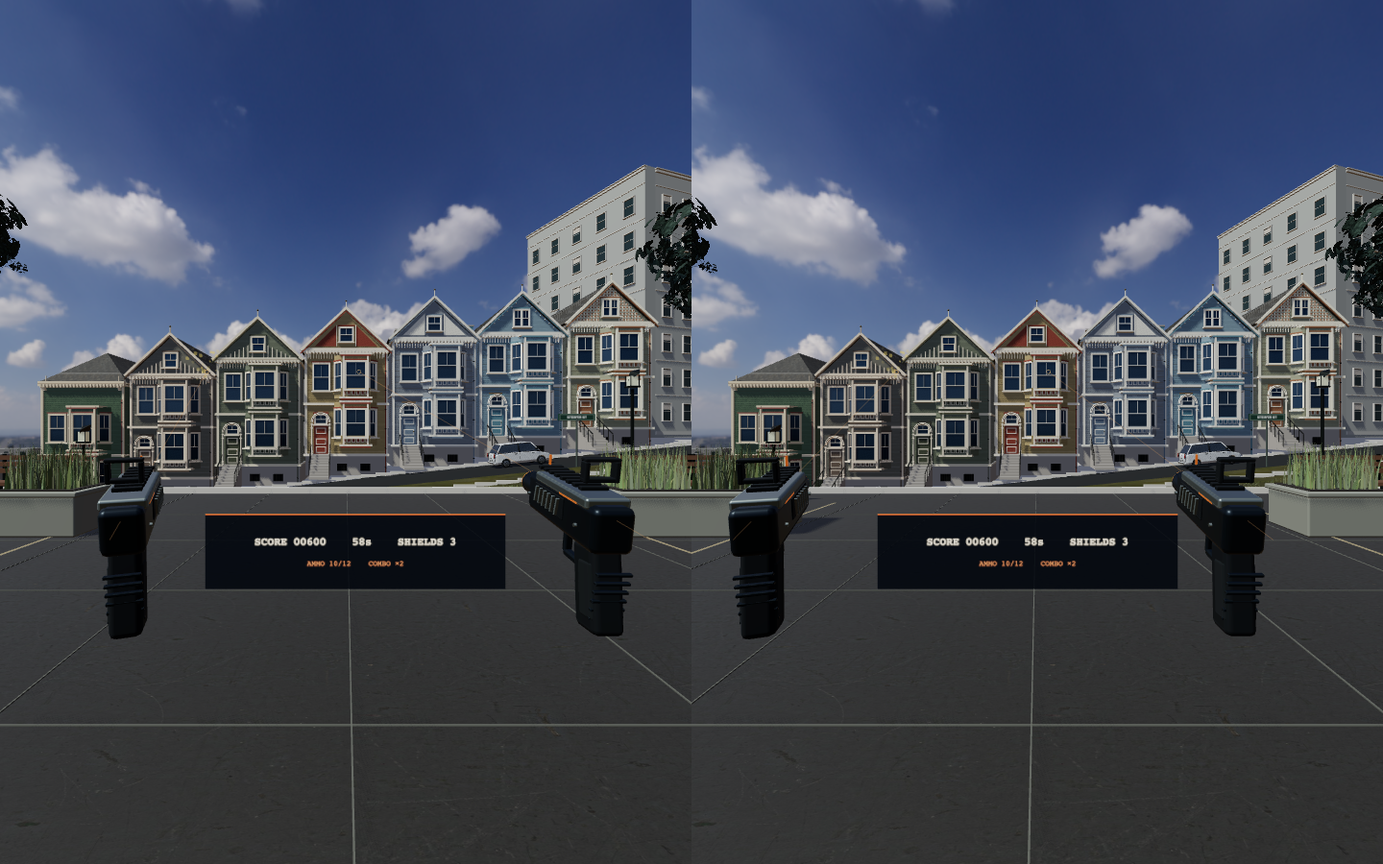
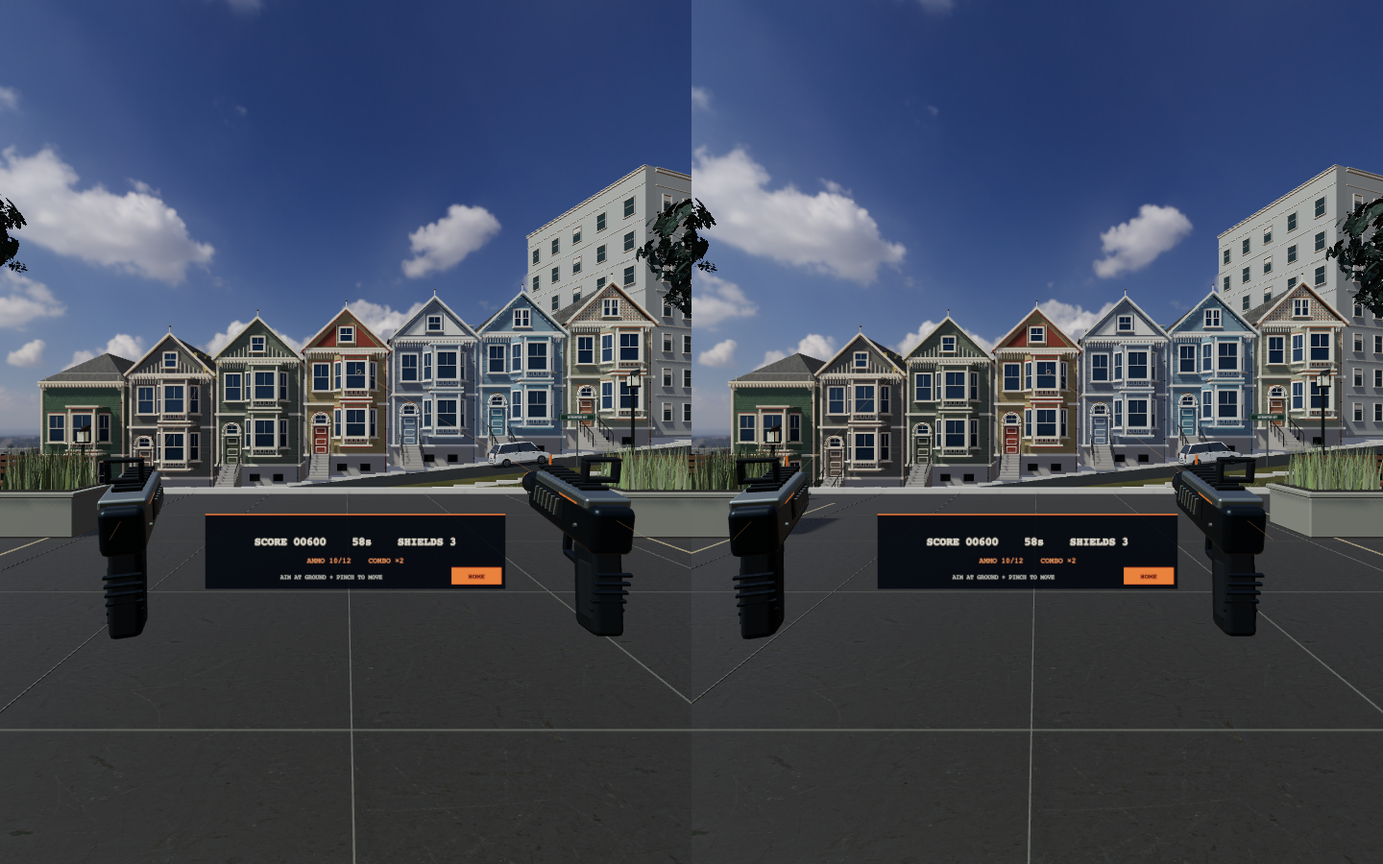
Add hand teleporting, stick locomotion and park collision bounds

diff --git a/src/main.ts b/src/main.ts
@@ -3,6 +3,7 @@ import {Game} from './game';
 import {Sound} from './audio';
 import {buildLevel} from './level';
 import {makeBlaster,makeDrone} from './drone';
+import {Locomotion} from './locomotion';
 import type {Target} from './game';
 
 const $=<T extends HTMLElement=HTMLElement>(id:string)=>document.getElementById(id) as T;
@@ -45,21 +46,22 @@ const hudCanvas=document.createElement('canvas');hudCanvas.width=1024;hudCanvas.
 const hudContext=hudCanvas.getContext('2d')!;
 const hudTexture=new THREE.CanvasTexture(hudCanvas);hudTexture.colorSpace=THREE.SRGBColorSpace;
 const xrHud=new THREE.Mesh(new THREE.PlaneGeometry(.98,.245),new THREE.MeshBasicMaterial({map:hudTexture,transparent:true,depthTest:false,depthWrite:false}));
-xrHud.position.set(0,-.39,-1.45);xrHud.renderOrder=1000;xrHud.visible=false;camera.add(xrHud);
+xrHud.name='XR status and movement';xrHud.position.set(0,-.39,-1.45);xrHud.renderOrder=1000;xrHud.visible=false;camera.add(xrHud);
 let hudLast='',hudTime=0,domUpdateAt=0;
 function drawXRHUD(){
- const message=game.phase==='ready'?'POINT + PINCH TO START':game.phase==='over'?'ROUND OVER · SELECT TO PLAY AGAIN':game.phase==='paused'?'PAUSED · SELECT TO RESUME':`SCORE ${String(game.score).padStart(5,'0')}    ${game.remaining}s    SHIELDS ${game.shields}`;
- const detail=game.phase==='playing'?(game.reloadLeft>0?'RELOADING…':`AMMO ${game.ammo}/12    ${game.combo>1?'COMBO ×'+game.combo:'AIM AT THE DRONES'}`):'SFVR / ALAMO SQUARE';
- const text=message+detail;if(text===hudLast&&clock-hudTime<1)return;hudLast=text;hudTime=clock;hudContext.clearRect(0,0,1024,256);hudContext.fillStyle='rgba(11,25,35,0.86)';hudContext.fillRect(0,0,1024,256);hudContext.fillStyle='#ff7b3d';hudContext.fillRect(0,0,1024,4);hudContext.textAlign='center';hudContext.font='bold 37px monospace';hudContext.fillStyle='#fff3dc';hudContext.fillText(message,512,106);hudContext.font='25px monospace';hudContext.fillStyle='#ffa46c';hudContext.fillText(detail,512,177);hudTexture.needsUpdate=true;
+ const message=locomotion.aiming?'RELEASE PINCH TO MOVE':game.phase==='ready'?'POINT + PINCH TO START':game.phase==='over'?'ROUND OVER · SELECT TO PLAY AGAIN':game.phase==='paused'?'PAUSED · SELECT TO RESUME':`SCORE ${String(game.score).padStart(5,'0')}    ${game.remaining}s    SHIELDS ${game.shields}`;
+ const detail=locomotion.aiming?(locomotion.valid?'CLEAR DESTINATION':'CHOOSE CLEAR GROUND INSIDE THE PARK'):game.phase==='playing'?(game.reloadLeft>0?'RELOADING…':`AMMO ${game.ammo}/12    ${game.combo>1?'COMBO ×'+game.combo:'AIM AT THE DRONES'}`):'SFVR / ALAMO SQUARE';
+ const text=message+detail;if(text===hudLast&&clock-hudTime<1)return;hudLast=text;hudTime=clock;hudContext.clearRect(0,0,1024,256);hudContext.fillStyle='rgba(11,25,35,0.86)';hudContext.fillRect(0,0,1024,256);hudContext.fillStyle='#ff7b3d';hudContext.fillRect(0,0,1024,4);hudContext.textAlign='center';hudContext.font='bold 37px monospace';hudContext.fillStyle='#fff3dc';hudContext.fillText(message,512,106);hudContext.font='25px monospace';hudContext.fillStyle='#ffa46c';hudContext.fillText(detail,512,167);hudContext.font='20px monospace';hudContext.fillStyle='#dedbd0';hudContext.fillText('AIM AT GROUND + PINCH TO MOVE',430,222);hudContext.fillStyle='#ff7b3d';hudContext.fillRect(840,183,170,57);hudContext.font='bold 24px monospace';hudContext.fillStyle='#14212a';hudContext.fillText('HOME',925,221);hudTexture.needsUpdate=true;
 }
 const controllers=[renderer.xr.getController(0),renderer.xr.getController(1)];
 const controllerHeld=new Set<THREE.XRTargetRaySpace>();
+const locomotion=new Locomotion(rig,camera,renderer,scene,controllers,xrHud,()=>game.phase==='playing',ray=>game.targets.some(t=>ray.intersectsSphere(new THREE.Sphere(new THREE.Vector3(t.x,t.y,t.z),t.kind==='heavy'?.95:.85))));
 for(const controller of controllers){
  rig.add(controller);const gun=makeBlaster();gun.scale.setScalar(.6);gun.position.set(0,-.025,-.04);controller.add(gun);controller.userData.gun=gun;
- const line=new THREE.Line(new THREE.BufferGeometry().setFromPoints([new THREE.Vector3(0,0,0),new THREE.Vector3(0,0,-12)]),new THREE.LineBasicMaterial({color:'#ff9858',transparent:true,opacity:.28}));controller.add(line);
+ const line=new THREE.Line(new THREE.BufferGeometry().setFromPoints([new THREE.Vector3(0,0,0),new THREE.Vector3(0,0,-12)]),new THREE.LineBasicMaterial({color:'#ff9858',transparent:true,opacity:.28}));controller.add(line);controller.userData.line=line;
  const cursor=new THREE.Mesh(new THREE.RingGeometry(.045,.06,24),new THREE.MeshBasicMaterial({color:'#ffb469',transparent:true,opacity:.85,depthWrite:false}));cursor.position.z=-12;controller.add(cursor);controller.userData.cursor=cursor;
- controller.addEventListener('selectstart',()=>{sound.unlock();if(game.phase==='ready'||game.phase==='over'){start();return;}if(game.phase==='paused'){resume();return;}controllerHeld.add(controller);fireFromController(controller)});
- controller.addEventListener('selectend',()=>controllerHeld.delete(controller));controller.addEventListener('disconnected',()=>controllerHeld.delete(controller));
+ controller.addEventListener('selectstart',()=>{sound.unlock();if(locomotion.selectStart(controller)){drawXRHUD();return;}if(game.phase==='ready'||game.phase==='over'){start();return;}if(game.phase==='paused'){resume();return;}controllerHeld.add(controller);fireFromController(controller)});
+ controller.addEventListener('selectend',()=>{controllerHeld.delete(controller);locomotion.selectEnd(controller);drawXRHUD()});controller.addEventListener('disconnected',()=>{controllerHeld.delete(controller);locomotion.cancel(controller)});
 }
 function fireFromController(controller:THREE.Object3D){
  if(!controller.visible)return;
@@ -81,13 +83,13 @@ $('xr').onclick=async()=>{
   await renderer.xr.setSession(session);
  }catch(error){toast('XR could not start. Check headset permissions and use a secure URL.');console.warn('XR session failed',error)}
 };
-renderer.xr.addEventListener('sessionstart',()=>{document.body.classList.add('xr');weapon.visible=false;xrHud.visible=true;game.laneWidth=15;rig.position.set(0,0,6.5);rig.rotation.set(0,0,0);renderer.shadowMap.enabled=true;desktopHeld=false;keys.clear();if(game.phase==='playing')game.pause();drawXRHUD();});
-renderer.xr.addEventListener('sessionend',()=>{document.body.classList.remove('xr');weapon.visible=true;xrHud.visible=false;renderer.shadowMap.enabled=true;renderer.shadowMap.needsUpdate=true;controllerHeld.clear();camera.position.set(0,1.7,0);camera.rotation.set(.08,0,0);rig.position.set(0,0,6.5);fitViewport();if(game.phase==='playing')pause();syncUI();checkXR();});
+renderer.xr.addEventListener('sessionstart',()=>{locomotion.reset();document.body.classList.add('xr');weapon.visible=false;xrHud.visible=true;game.laneWidth=15;rig.position.set(0,0,6.5);rig.rotation.set(0,0,0);renderer.shadowMap.enabled=true;desktopHeld=false;keys.clear();if(game.phase==='playing')game.pause();drawXRHUD();});
+renderer.xr.addEventListener('sessionend',()=>{locomotion.reset();document.body.classList.remove('xr');weapon.visible=true;xrHud.visible=false;renderer.shadowMap.enabled=true;renderer.shadowMap.needsUpdate=true;controllerHeld.clear();camera.position.set(0,1.7,0);camera.rotation.set(.08,0,0);rig.position.set(0,0,6.5);rig.rotation.set(0,0,0);fitViewport();if(game.phase==='playing')pause();syncUI();checkXR();});
 
-function start(){if(!ready)return;sound.unlock();sound.tone('start');clearDrones();clearEffects();game.start();recoil=0;keys.clear();desktopHeld=false;controllerHeld.clear();rig.position.set(0,0,6.5);camera.rotation.x=.08;syncUI();processEvents();}
-function pause(){game.pause();desktopHeld=false;controllerHeld.clear();keys.clear();syncUI()}
+function start(){if(!ready)return;locomotion.reset();sound.unlock();sound.tone('start');clearDrones();clearEffects();game.start();recoil=0;keys.clear();desktopHeld=false;controllerHeld.clear();locomotion.goHome();if(!renderer.xr.isPresenting)camera.rotation.x=.08;syncUI();processEvents();}
+function pause(){locomotion.cancel();game.pause();desktopHeld=false;controllerHeld.clear();keys.clear();syncUI()}
 function resume(){game.resume();last=performance.now();syncUI()}
-function back(){game.phase='ready';clearDrones();clearEffects();desktopHeld=false;controllerHeld.clear();keys.clear();rig.position.set(0,0,6.5);syncUI()}
+function back(){locomotion.reset();game.phase='ready';clearDrones();clearEffects();desktopHeld=false;controllerHeld.clear();keys.clear();locomotion.goHome();syncUI()}
 function syncUI(){
  const playing=game.phase==='playing'||game.phase==='paused';document.body.classList.toggle('playing',playing);
  $('menu').hidden=game.phase!=='ready';$('hud').hidden=!playing;$('pause').hidden=game.phase!=='paused';$('result').hidden=game.phase!=='over';$('footer').hidden=game.phase!=='ready';
@@ -99,7 +101,7 @@ $('play').onclick=start;$('again').onclick=start;$('resume').onclick=resume;$('q
 $('reload').onclick=()=>game.reload();$('sound').onclick=()=>{sound.enabled=!sound.enabled;$('sound').innerHTML=(sound.enabled?'SOUND ON':'SOUND OFF')+' <i>▥</i>';$('sound').setAttribute('aria-pressed',String(!sound.enabled));$('sound').setAttribute('aria-label',sound.enabled?'Mute sound':'Unmute sound');};
 $('help').onclick=()=>{pause();$<HTMLDialogElement>('help-dialog').showModal()};$('close-help').onclick=()=>$<HTMLDialogElement>('help-dialog').close();
 document.addEventListener('visibilitychange',()=>{if(document.hidden)pause()});window.addEventListener('blur',()=>{if(!renderer.xr.isPresenting)pause()});
-window.addEventListener('keydown',e=>{if(e.target instanceof HTMLInputElement||$<HTMLDialogElement>('help-dialog').open)return;if(e.code==='Escape'){if(game.phase==='playing')pause();else if(game.phase==='paused')resume();}if(e.code==='KeyR')game.reload();if(['KeyA','KeyD','ArrowLeft','ArrowRight'].includes(e.code)){e.preventDefault();keys.add(e.code)}});
+window.addEventListener('keydown',e=>{if(e.target instanceof HTMLInputElement||$<HTMLDialogElement>('help-dialog').open)return;if(e.code==='Escape'){if(game.phase==='playing')pause();else if(game.phase==='paused')resume();}if(e.code==='KeyR')game.reload();if(e.code==='KeyH'){locomotion.goHome();drawXRHUD();}if(['KeyW','KeyA','KeyS','KeyD','ArrowUp','ArrowDown','ArrowLeft','ArrowRight'].includes(e.code)){e.preventDefault();keys.add(e.code)}});
 window.addEventListener('keyup',e=>keys.delete(e.code));
 function updatePointer(e:PointerEvent){const rect=canvas.getBoundingClientRect();pointer.set((e.clientX-rect.left)/rect.width*2-1,-(e.clientY-rect.top)/rect.height*2+1);$('reticle').style.left=e.clientX+'px';$('reticle').style.top=e.clientY+'px';$('hit-marker').style.left=e.clientX+'px';$('hit-marker').style.top=e.clientY+'px';}
 canvas.addEventListener('pointermove',updatePointer);
@@ -129,9 +131,10 @@ function processEvents(){for(const event of game.drain()){
  if(event.type==='reload')sound.tone('reload');if(event.type==='over')syncUI();
 }}
 function frame(now:number){const dt=last?Math.min((now-last)/1000,.1):0;last=now;clock+=dt;
+ locomotion.update(dt,keys);
  if(game.phase==='playing'){
   game.step(dt);processEvents();
-  if(!renderer.xr.isPresenting){if(keys.has('KeyA')||keys.has('ArrowLeft'))rig.position.x=Math.max(-4,rig.position.x-dt*2.3);if(keys.has('KeyD')||keys.has('ArrowRight'))rig.position.x=Math.min(4,rig.position.x+dt*2.3);if(desktopHeld)shootDesktop();}
+  if(!renderer.xr.isPresenting){if(desktopHeld)shootDesktop();}
   else for(const controller of controllerHeld)fireFromController(controller);
  }
  for(const t of game.targets){const d=drones.get(t.id);if(!d)continue;d.position.set(t.x,t.y,t.z);d.rotation.z=Math.sin(t.age*1.2+t.phase)*.12;for(const rotor of d.userData.rotors as THREE.Mesh[])rotor.rotation.y+=dt*45;const accent=d.userData.accent as THREE.MeshStandardMaterial;accent.emissiveIntensity=t.age>7?1.2+Math.sin(clock*14)*.7:.8;}
@@ -142,19 +145,22 @@ function frame(now:number){const dt=last?Math.min((now-last)/1000,.1):0;last=now
  if(renderer.xr.isPresenting)for(const controller of controllers){
   if(!controller.visible)continue;controller.updateWorldMatrix(true,false);matrix.identity().extractRotation(controller.matrixWorld);aimRay.origin.setFromMatrixPosition(controller.matrixWorld);aimRay.direction.set(0,0,-1).applyMatrix4(matrix).normalize();let distance=14,aimed=false;
   for(const t of game.targets){const p=aimRay.intersectSphere(new THREE.Sphere(new THREE.Vector3(t.x,t.y,t.z),t.kind==='heavy'?.95:.85),tempV);if(p){const d=p.distanceTo(aimRay.origin);if(d<distance){distance=d;aimed=true}}}
-  const cursor=controller.userData.cursor as THREE.Mesh;cursor.position.z=-distance;cursor.scale.setScalar(distance/12);(cursor.material as THREE.MeshBasicMaterial).color.set(aimed?'#fff5d8':'#ffb469');
+  const navigation=locomotion.pointerTarget(controller);if(navigation){distance=navigation.distance;aimed=true;}
+  (controller.userData.line as THREE.Line).scale.z=distance/12;
+  const cursor=controller.userData.cursor as THREE.Mesh;cursor.visible=!navigation?.floor;cursor.position.z=-distance;cursor.scale.setScalar(distance/12);(cursor.material as THREE.MeshBasicMaterial).color.set(aimed?'#fff5d8':'#ffb469');
  }
  if(clock>hitUntil)$('hit-marker').style.opacity='0';if(clock>damageUntil)$('damage-flash').style.opacity='0';
  if(!renderer.xr.isPresenting&&now-domUpdateAt>70){domUpdateAt=now;
  $('score').textContent=String(game.score).padStart(5,'0');$('wave').textContent=String(game.wave).padStart(2,'0');$('time').innerHTML=game.remaining+'<span>s</span>';$('time-bar').style.width=((60-game.elapsed)/60*100)+'%';
  $('ammo').textContent=game.reloadLeft>0?'··':String(game.ammo).padStart(2,'0');$('ammo-label').textContent=game.reloadLeft>0?'RELOADING…':'/ 12  RELOAD [R]';$('reload').classList.toggle('reloading',game.reloadLeft>0);
  [...$('shields').children].forEach((e,i)=>e.classList.toggle('lost',i>=game.shields));if(game.combo===0)$('combo').textContent='';}
+ locomotion.updateMarker();
  if(renderer.xr.isPresenting)drawXRHUD();
  renderer.render(scene,camera);
 }
 renderer.setAnimationLoop(frame);
 window.addEventListener('resize',()=>{if(renderer.xr.isPresenting)return;fitViewport();renderer.setSize(innerWidth,innerHeight)});
 canvas.addEventListener('webglcontextlost',e=>{e.preventDefault();pause();toast('Graphics connection lost. Reload the page to restart.');});
-function snapshot(){return {ready,phase:game.phase,score:game.score,shots:game.shots,hits:game.hits,shields:game.shields,ammo:game.ammo,reloading:game.reloadLeft,elapsed:game.elapsed,remaining:game.remaining,xr:renderer.xr.isPresenting,triangles:renderer.info.render.triangles,drawCalls:renderer.info.render.calls,targets:game.targets.map(t=>{const p=new THREE.Vector3(t.x,t.y,t.z).project(camera);return {id:t.id,hp:t.hp,x:(p.x+1)*innerWidth/2,y:(1-p.y)*innerHeight/2,visible:p.z<1&&Math.abs(p.x)<1&&Math.abs(p.y)<1}})}}
+function snapshot(){return {ready,phase:game.phase,score:game.score,shots:game.shots,hits:game.hits,shields:game.shields,ammo:game.ammo,reloading:game.reloadLeft,elapsed:game.elapsed,remaining:game.remaining,xr:renderer.xr.isPresenting,navigation:{position:{x:camera.getWorldPosition(new THREE.Vector3()).x,z:camera.getWorldPosition(new THREE.Vector3()).z},yaw:rig.rotation.y,teleporting:locomotion.aiming,target:locomotion.target},triangles:renderer.info.render.triangles,drawCalls:renderer.info.render.calls,targets:game.targets.map(t=>{const p=new THREE.Vector3(t.x,t.y,t.z).project(camera);return {id:t.id,hp:t.hp,x:(p.x+1)*innerWidth/2,y:(1-p.y)*innerHeight/2,visible:p.z<1&&Math.abs(p.x)<1&&Math.abs(p.y)<1}})}}
 if(import.meta.env.DEV)(window as any).__sfStrike={snapshot,renderer,game,scene};
 syncUI();

diff --git a/src/locomotion.ts b/src/locomotion.ts
@@ -1,0 +1,122 @@
+import * as T from 'three';
+import {canStand,HOME,moveInPark,stickAxes,travelDelta} from './navigation';
+
+type Destination={point:T.Vector3;valid:boolean};
+export class Locomotion {
+ private active?:T.XRTargetRaySpace;
+ private destination?:Destination;
+ private raycaster=new T.Raycaster();
+ private rotation=new T.Matrix4();
+ private head=new T.Vector3();
+ private forward=new T.Vector3();
+ private up=new T.Vector3(0,1,0);
+ private floor=new T.Plane(this.up,0);
+ private turnArmed=true;
+ private blinkLeft=0;
+ private marker:T.Group;
+ private blink:T.Mesh<T.PlaneGeometry,T.MeshBasicMaterial>;
+ constructor(private rig:T.Group,private camera:T.PerspectiveCamera,private renderer:T.WebGLRenderer,scene:T.Scene,private controllers:T.XRTargetRaySpace[],private hud:T.Mesh,private enabled:()=>boolean,private hitsDrone:(ray:T.Ray)=>boolean){
+  this.marker=new T.Group();this.marker.name='Teleport destination';this.marker.visible=false;
+  const material=new T.MeshBasicMaterial({color:'#ffad72',transparent:true,opacity:.9,depthWrite:false,side:T.DoubleSide});
+  const ring=new T.Mesh(new T.RingGeometry(.28,.36,48),material);ring.rotation.x=-Math.PI/2;
+  const dot=new T.Mesh(new T.CircleGeometry(.07,24),material);dot.rotation.x=-Math.PI/2;dot.position.y=.004;
+  this.marker.add(ring,dot);scene.add(this.marker);
+  this.blink=new T.Mesh(new T.PlaneGeometry(8,8),new T.MeshBasicMaterial({color:0x000000,transparent:true,opacity:0,depthTest:false,depthWrite:false}));
+  this.blink.position.z=-.12;this.blink.renderOrder=2000;this.blink.visible=false;camera.add(this.blink);
+ }
+ private headPosition(){this.camera.getWorldPosition(this.head);return this.head;}
+ private ray(controller:T.Object3D){
+  controller.updateWorldMatrix(true,false);this.rotation.extractRotation(controller.matrixWorld);
+  this.raycaster.ray.origin.setFromMatrixPosition(controller.matrixWorld);
+  this.raycaster.ray.direction.set(0,0,-1).applyMatrix4(this.rotation).normalize();
+  return this.raycaster.ray;
+ }
+ private homeHit(controller:T.Object3D){
+  this.ray(controller);this.hud.updateWorldMatrix(true,false);
+  const hit=this.raycaster.intersectObject(this.hud,false)[0];
+  return hit?.uv&&hit.uv.x>=.82&&hit.uv.y>=.06&&hit.uv.y<=.29?hit:undefined;
+ }
+ private floorTarget(controller:T.Object3D):Destination|undefined{
+  const ray=this.ray(controller);if(ray.direction.y>-.15||this.hitsDrone(ray))return;
+  const point=ray.intersectPlane(this.floor,new T.Vector3());if(!point)return;
+  const head=this.headPosition(),distance=Math.hypot(point.x-head.x,point.z-head.z);
+  return {point,valid:distance>=.45&&distance<=10&&canStand(point)};
+ }
+ pointerTarget(controller:T.Object3D){
+  const home=this.homeHit(controller);if(home)return {distance:home.distance,floor:false};
+  const ground=this.enabled()?this.floorTarget(controller):undefined;
+  return ground?{distance:this.raycaster.ray.origin.distanceTo(ground.point),floor:true}:undefined;
+ }
+ /** Returns true when a selection belongs to navigation, so it cannot fire. */
+ selectStart(controller:T.XRTargetRaySpace){
+  if(!controller.visible)return false;
+  if(this.homeHit(controller)){this.cancel();this.goHome();return true;}
+  if(!this.enabled())return false;
+  const destination=this.floorTarget(controller);
+  if(destination){if(!this.active){this.active=controller;this.destination=destination;}return true;}
+  return this.active===controller;
+ }
+ selectEnd(controller:T.XRTargetRaySpace){
+  if(this.active!==controller)return false;
+  // Re-evaluate on release: aiming outside the park or losing tracking cancels.
+  const destination=controller.visible&&this.enabled()?this.floorTarget(controller):undefined;
+  this.cancel();if(destination?.valid)this.teleport(destination.point);
+  return true;
+ }
+ cancel(controller?:T.XRTargetRaySpace){if(controller&&controller!==this.active)return;this.active=undefined;this.destination=undefined;this.marker.visible=false;}
+ private teleport(point:{x:number;z:number}){
+  const head=this.headPosition();this.rig.position.x+=point.x-head.x;this.rig.position.z+=point.z-head.z;
+  this.rig.updateMatrixWorld(true);if(this.renderer.xr.isPresenting)this.blinkLeft=.14;
+ }
+ goHome(){
+  this.cancel();
+  if(this.renderer.xr.isPresenting){this.rig.rotation.y=0;this.rig.updateMatrixWorld(true);this.teleport(HOME);}
+  else{this.rig.position.set(HOME.x,0,HOME.z);this.rig.rotation.set(0,0,0);this.camera.position.set(0,1.7,0);this.camera.rotation.set(.08,0,0);this.rig.updateMatrixWorld(true);}
+ }
+ reset(){this.cancel();this.turnArmed=true;this.blinkLeft=0;this.blink.visible=false;}
+ private move(strafe:number,forward:number,dt:number){
+  if(!strafe&&!forward)return;
+  this.camera.getWorldDirection(this.forward);const yaw=Math.atan2(-this.forward.x,-this.forward.z);
+  const head=this.headPosition(),destination=moveInPark(head,travelDelta(strafe,forward,yaw,dt));
+  this.rig.position.x+=destination.x-head.x;this.rig.position.z+=destination.z-head.z;this.rig.updateMatrixWorld(true);
+ }
+ private turn(sign:number){
+  // Rotate around the tracked viewer, not the room's origin.
+  const before=this.headPosition().clone();this.rig.rotateY(-sign*Math.PI/4);this.rig.updateMatrixWorld(true);
+  const after=this.headPosition();this.rig.position.x+=before.x-after.x;this.rig.position.z+=before.z-after.z;this.rig.updateMatrixWorld(true);this.blinkLeft=.1;
+ }
+ update(dt:number,keys:Set<string>){
+  if(!this.enabled()){this.cancel();this.turnArmed=true;}
+  else if(this.renderer.xr.isPresenting){
+   if(this.active&&!this.active.visible)this.cancel();
+   let strafe=0,forward=0,turn=0;
+   for(const source of this.renderer.xr.getSession()?.inputSources??[]){
+    if(source.hand||source.gamepad?.mapping!=='xr-standard')continue;
+    const [x,y]=stickAxes(source.gamepad.axes);
+    if(source.handedness==='left'){strafe=x;forward=-y;}
+    if(source.handedness==='right')turn=x;
+   }
+   if(!this.active){this.move(strafe,forward,dt);if(Math.abs(turn)<.25)this.turnArmed=true;else if(Math.abs(turn)>.65&&this.turnArmed){this.turn(Math.sign(turn));this.turnArmed=false;}}
+  }else{
+   const right=keys.has('KeyD')||keys.has('ArrowRight'),left=keys.has('KeyA')||keys.has('ArrowLeft');
+   const forward=keys.has('KeyW')||keys.has('ArrowUp'),back=keys.has('KeyS')||keys.has('ArrowDown');
+   this.move(Number(right)-Number(left),Number(forward)-Number(back),dt);
+  }
+  this.marker.visible=false;
+  this.blinkLeft=Math.max(0,this.blinkLeft-dt);this.blink.visible=this.blinkLeft>0;this.blink.material.opacity=Math.min(1,this.blinkLeft/.08);
+ }
+ /** Update the marker after movement, from the tracked target ray. */
+ updateMarker(){
+  if(!this.enabled()||!this.renderer.xr.isPresenting)return;
+  let destination:Destination|undefined;
+  if(this.active){destination=this.floorTarget(this.active);this.destination=destination;}
+  else for(const controller of this.controllers){if(controller.visible&&!this.homeHit(controller)){destination=this.floorTarget(controller);if(destination)break;}}
+  if(!destination)return;
+  this.marker.visible=true;this.marker.position.copy(destination.point);this.marker.position.y=.025;
+  const material=(this.marker.children[0] as T.Mesh).material as T.MeshBasicMaterial;
+  material.color.set(destination.valid?'#ffad72':'#ea6961');this.marker.scale.setScalar(this.active?1.12:1);
+ }
+ get aiming(){return !!this.active;}
+ get valid(){return !!this.destination?.valid;}
+ get target(){return this.destination?{x:this.destination.point.x,z:this.destination.point.z,valid:this.destination.valid}:null;}
+}

diff --git a/index.html b/index.html
@@ -3,10 +3,10 @@
 <header><a class="wordmark" href="./" aria-label="SFVR home"><span class="mark">↗</span> SF<span>VR</span><small>GALAXY XR</small></a><div class="location"><i></i> ALAMO SQUARE <span>37.7762° N · 122.4328° W</span></div><button id="help" class="icon-button" aria-label="How to play">?</button></header>
 <div id="loading" role="status"><span class="spinner"></span><span id="loading-text">Preparing the skyline</span></div>
 <main id="menu" class="menu"><div class="kicker"><span></span> BUILT FOR SAMSUNG GALAXY XR</div><h1>DEFEND<br>THE <em>SKYLINE.</em></h1><p class="intro">The Painted Ladies have company.<br>Clear the drones. Keep the park standing.</p><div class="game-spec"><span><b>60</b> SECONDS</span><span><b>03</b> SHIELDS</span><span><b>01</b> CITY</span></div><div class="actions"><button id="play" class="button primary" disabled><span>START ROUND</span><span>↗</span></button><button id="xr" class="button secondary" disabled>ENTER XR <span>◉</span></button></div><p id="xr-note" class="control-note">Mouse to aim · click to fire · R to reload</p><div class="best-line">PERSONAL BEST <strong id="menu-best">00000</strong><span>STORED ON THIS DEVICE</span></div></main>
-<div id="hud" hidden><div class="top-hud"><div class="wave"><span>WAVE</span><strong id="wave">01</strong></div><div class="timer"><span>TIME LEFT</span><strong id="time">60<span>s</span></strong><div class="time-track"><i id="time-bar"></i></div></div><div class="score"><span>SCORE</span><strong id="score">00000</strong></div></div><div id="reticle"><i></i><i></i><i></i><i></i><b></b></div><div id="hit-marker">×</div><div id="combo" class="combo"></div><div class="bottom-hud"><div class="shield-block"><span>SHIELDS</span><div id="shields"><i></i><i></i><i></i></div></div><div class="fight-help">AIM / FIRE <span>CLICK</span><b>·</b> STRAFE <span>A / D</span><b>·</b> PAUSE <span>ESC</span></div><button id="reload" class="ammo"><strong id="ammo">12</strong><span id="ammo-label">/ 12 &nbsp; RELOAD [R]</span></button></div></div>
+<div id="hud" hidden><div class="top-hud"><div class="wave"><span>WAVE</span><strong id="wave">01</strong></div><div class="timer"><span>TIME LEFT</span><strong id="time">60<span>s</span></strong><div class="time-track"><i id="time-bar"></i></div></div><div class="score"><span>SCORE</span><strong id="score">00000</strong></div></div><div id="reticle"><i></i><i></i><i></i><i></i><b></b></div><div id="hit-marker">×</div><div id="combo" class="combo"></div><div class="bottom-hud"><div class="shield-block"><span>SHIELDS</span><div id="shields"><i></i><i></i><i></i></div></div><div class="fight-help">AIM / FIRE <span>CLICK</span><b>·</b> MOVE <span>WASD</span><b>·</b> HOME <span>H</span><b>·</b> PAUSE <span>ESC</span></div><button id="reload" class="ammo"><strong id="ammo">12</strong><span id="ammo-label">/ 12 &nbsp; RELOAD [R]</span></button></div></div>
 <section id="pause" class="overlay" hidden><p class="kicker">TAKE A BREATHER</p><h2>ROUND PAUSED.</h2><p>The timer is stopped. Pick up where you left off.</p><button id="resume" class="button primary">RESUME <span>↗</span></button><button id="quit" class="text-button">Back to title</button></section>
 <section id="result" class="overlay" hidden><p id="result-eyebrow" class="kicker">SKYLINE SECURED</p><h2 id="rank">PARK GUARDIAN</h2><p class="result-label">FINAL SCORE</p><div id="final-score" class="final-score">00000</div><div class="result-stats"><div><strong id="final-kills">0</strong><span>DRONES CLEARED</span></div><div><strong id="final-accuracy">0%</strong><span>ACCURACY</span></div><div><strong id="final-best">0</strong><span>PERSONAL BEST</span></div></div><button id="again" class="button primary">PLAY AGAIN <span>↻</span></button><button id="back" class="text-button">Back to the skyline</button></section>
 <footer id="footer"><span>POINT. SHOOT. REPEAT.</span><span>SAMSUNG GALAXY XR · POINT + PINCH.</span><button id="sound" aria-label="Mute sound" aria-pressed="false">SOUND ON <i>▥</i></button></footer>
 <div id="toast" role="status" hidden></div>
-<dialog id="help-dialog"><button id="close-help" class="close" aria-label="Close instructions">×</button><p class="kicker">FIELD NOTES / 01</p><h2>OWN THE SKY.</h2><p>Shoot drones before they breach the park. Survive 60 seconds with at least one shield.</p><dl><div><dt>Aim & fire</dt><dd>Move your mouse and click. Hold to fire repeatedly. On touchscreens, tap a drone.</dd></div><div><dt>Keep it going</dt><dd>12 shots per magazine. Press R or tap your ammo to reload; an empty magazine reloads automatically.</dd></div><div><dt>Build a combo</dt><dd>Clear drones within 3 seconds of each other for up to 5× points. Gold drones are worth extra; purple drones take two hits.</dd></div><div><dt>In your headset</dt><dd>Open this page in Chrome on Galaxy XR, then select Enter Galaxy XR. Point and pinch, or aim a controller and pull its trigger. Select once to start or replay. Your physical head movement controls the view.</dd></div></dl><p class="small">WebXR needs a secure URL or localhost through ADB reverse. Point and pinch to fire. Keep your play area clear while using the headset.</p></dialog>
+<dialog id="help-dialog"><button id="close-help" class="close" aria-label="Close instructions">×</button><p class="kicker">FIELD NOTES / 01</p><h2>OWN THE SKY.</h2><p>Shoot drones before they breach the park. Survive 60 seconds with at least one shield.</p><dl><div><dt>Aim & fire</dt><dd>Move your mouse and click. Hold to fire repeatedly. On touchscreens, tap a drone.</dd></div><div><dt>Move around</dt><dd>On desktop, use WASD or arrow keys to move around the park. Press H to return to the starting position. Movement avoids planters and benches.</dd></div><div><dt>Keep it going</dt><dd>12 shots per magazine. Press R or tap your ammo to reload; an empty magazine reloads automatically.</dd></div><div><dt>Build a combo</dt><dd>Clear drones within 3 seconds of each other for up to 5× points. Gold drones are worth extra; purple drones take two hits.</dd></div><div><dt>In your headset</dt><dd>Open this page in Chrome on Galaxy XR, then select Enter Galaxy XR. Point and pinch, or aim a controller and pull its trigger. Select once to start or replay. To move, point at clear ground, pinch and hold, then release on the orange ring. Red means blocked. Select HOME on the headset HUD to return. With controllers, the left stick moves and the right stick turns in 45° steps.</dd></div></dl><p class="small">WebXR needs a secure URL or localhost through ADB reverse. Point and pinch to fire. Keep your play area clear while using the headset.</p></dialog>
 <script type="module" src="/src/main.ts"></script></body></html>

diff --git a/tests/navigation.test.ts b/tests/navigation.test.ts
@@ -1,0 +1,27 @@
+import test from 'node:test';
+import assert from 'node:assert/strict';
+import {canStand,HOME,moveInPark,stickAxes,travelDelta} from '../src/navigation.ts';
+
+test('navigation accepts park floor and excludes props, edges and invalid coordinates',()=>{
+ assert.ok(canStand(HOME));assert.ok(canStand({x:2,z:3}));
+ for(const p of [{x:4.8,z:-.6},{x:-4.8,z:-.6},{x:7,z:-3.1},{x:-9.2,z:-.4},{x:12,z:0},{x:0,z:-5},{x:0,z:11},{x:NaN,z:0}])assert.equal(canStand(p),false,JSON.stringify(p));
+});
+test('movement cannot tunnel through a planter, bench or park boundary',()=>{
+ const planter=moveInPark({x:4.8,z:2},{x:0,z:-5});assert.ok(planter.z>=.37);assert.ok(canStand(planter));
+ const bench=moveInPark({x:7,z:-1},{x:0,z:-5});assert.ok(bench.z>=-2.3);assert.ok(canStand(bench));
+ const edge=moveInPark(HOME,{x:100,z:0});assert.ok(edge.x<=11.4);assert.ok(canStand(edge));
+});
+test('moving diagonally slides around obstacles without increasing speed',()=>{
+ const straight=travelDelta(0,1,0,.1),diagonal=travelDelta(1,1,0,.1);
+ assert.ok(Math.abs(Math.hypot(straight.x,straight.z)-Math.hypot(diagonal.x,diagonal.z))<1e-8);
+ const slide=moveInPark({x:4.8,z:.5},{x:.6,z:-.6});assert.ok(slide.x>5.3);assert.ok(slide.z>.37);assert.ok(canStand(slide));
+});
+test('travel follows the view heading and clamps long frames',()=>{
+ const p=travelDelta(0,1,Math.PI/2,.1);assert.ok(p.x<0);assert.ok(Math.abs(p.z)<1e-8);
+ assert.deepEqual(travelDelta(0,1,0,5),travelDelta(0,1,0,.1));
+ const still=travelDelta(0,0,0,.1);assert.equal(Math.hypot(still.x,still.z),0);
+});
+test('XR stick deadzone rejects drift and selects standard thumbstick axes',()=>{
+ assert.deepEqual(stickAxes([0,0,.05,-.15]),[0,0]);assert.deepEqual(stickAxes([.9,.8,1,-1]),[1,-1]);
+ assert.deepEqual(stickAxes([1,-1]),[1,-1]);assert.deepEqual(stickAxes([]),[0,0]);
+});

diff --git a/src/navigation.ts b/src/navigation.ts
@@ -1,0 +1,28 @@
+/** Flat park navigation in world X/Z coordinates, with body clearance. */
+export type Point={x:number;z:number};
+export const HOME:Readonly<Point>={x:0,z:6.5};
+export const PARK_BOUNDS={minX:-11.4,maxX:11.4,minZ:-4.2,maxZ:10};
+export const BODY_RADIUS=.35;
+const obstacles=[
+ ...[-4.8,4.8].map(x=>({x,z:-.6,halfX:.72,halfZ:.62})),
+ ...[-7,7].map(x=>({x,z:-3.1,halfX:1.1,halfZ:.45})),
+ {x:-9.2,z:-.4,halfX:.3,halfZ:.3},
+];
+export function canStand(p:Point){
+ return Number.isFinite(p.x)&&Number.isFinite(p.z)&&p.x>=PARK_BOUNDS.minX&&p.x<=PARK_BOUNDS.maxX&&p.z>=PARK_BOUNDS.minZ&&p.z<=PARK_BOUNDS.maxZ&&!obstacles.some(o=>Math.abs(p.x-o.x)<o.halfX+BODY_RADIUS&&Math.abs(p.z-o.z)<o.halfZ+BODY_RADIUS);
+}
+/** Substeps prevent tunnelling; separated axes allow sliding along an obstacle. */
+export function moveInPark(from:Point,delta:Point):Point{
+ let p={...from};const steps=Math.max(1,Math.ceil(Math.hypot(delta.x,delta.z)/.08));
+ for(let i=0;i<steps;i++){
+  const x={x:p.x+delta.x/steps,z:p.z};if(canStand(x))p=x;
+  const z={x:p.x,z:p.z+delta.z/steps};if(canStand(z))p=z;
+ }
+ return p;
+}
+export function travelDelta(strafe:number,forward:number,yaw:number,seconds:number,speed=2.3):Point{
+ const length=Math.max(1,Math.hypot(strafe,forward)),dt=Math.max(0,Math.min(seconds,.1));
+ return {x:(strafe*Math.cos(yaw)-forward*Math.sin(yaw))/length*dt*speed,z:(-strafe*Math.sin(yaw)-forward*Math.cos(yaw))/length*dt*speed};
+}
+export function stickAxis(value:number){return Number.isFinite(value)&&Math.abs(value)>.18?Math.sign(value)*Math.min(1,(Math.min(Math.abs(value),1)-.18)/.82):0;}
+export function stickAxes(axes:readonly number[]):[number,number]{return axes.length>=4?[stickAxis(axes[2]),stickAxis(axes[3])]:axes.length===2?[stickAxis(axes[0]),stickAxis(axes[1])]:[0,0];}

diff --git a/README.md b/README.md
@@ -12,13 +12,13 @@ SFVR is a hand-tracked arcade shooter set in San Francisco's Alamo Square. Stand
 
 Survive a complete round before the drones breach the park. Gold targets give bonus points, armored targets take two hits, and quick eliminations build a combo up to 5×. Your twelve-shot magazine reloads automatically when empty. Scores, accuracy and personal bests encourage replay.
 
-The environment uses full-volume buildings, detailed quadrotors and blasters, textured surfaces, an HDR sky, cached shadows, and vegetation. Lean or look around in XR to see the scene's depth. The headset camera follows physical movement without artificial locomotion or camera shake.
+The environment uses full-volume buildings, detailed quadrotors and blasters, textured surfaces, an HDR sky, cached shadows, and vegetation. Lean or look around in XR to see the scene's depth. Move around the park using hand teleporting or a controller stick, with collision boundaries and no camera shake.
 
 ![Actual Samsung Galaxy XR capture: both hand-controlled blasters](docs/screenshots/galaxy-xr.jpg)
 
 ## Play on Samsung Galaxy XR
 
-Open the live game in **Chrome on Galaxy XR**, choose **Enter Galaxy XR**, and allow tracking. Point and pinch once to start, then pinch at drones to shoot. Hold the pinch for repeated shots. No handheld controller is required; standard XR controller triggers also work.
+Open the live game in **Chrome on Galaxy XR**, choose **Enter Galaxy XR**, and allow tracking. Point and pinch once to start, then pinch at drones to shoot. Hold the pinch for repeated shots. To move, aim at clear ground, hold a pinch, then release on the orange ring. Red means blocked. Select **HOME** on the headset HUD to return. Controllers support left-stick travel and right-stick 45° turns.
 
 For local development, connect the headset by USB, enable USB debugging, and accept the headset's authorization prompt:
 
@@ -31,7 +31,7 @@ npm run play:xr
 
 The launcher starts the server, forwards its port, opens headset Chrome, and restores forwarding after USB reconnections. Keep the terminal open. On macOS, you can also double-click **Launch SFVR.command** after installing dependencies.
 
-For a laptop preview, run `npm run dev` and open **http://127.0.0.1:5186**. Mouse aims, click fires, **A/D** strafes, **R** reloads, and **Escape** pauses. Touchscreens support tap-to-shoot.
+For a laptop preview, run `npm run dev` and open **http://127.0.0.1:5186**. Mouse aims, click fires, **WASD / arrows** move, **H** returns home, **R** reloads, and **Escape** pauses. Touchscreens support tap-to-shoot.
 
 ## Tech stack
 
@@ -47,7 +47,7 @@ For a laptop preview, run `npm run dev` and open **http://127.0.0.1:5186**. Mous
 
 ## Tested, with clear boundaries
 
-The project has run on a physical Galaxy XR, with both tracked hands detected and scored shots observed. Automated checks cover a full round, touch input, reload, pause, replay and simulated stereo hand input. Run `npm test`, `npm run build`, `npm run test:browser`, and `npm run test:xr`.
+The project has run on a physical Galaxy XR, with both tracked hands detected and scored shots observed. Automated checks cover a full round, touch input, reload, pause, replay and simulated stereo hand input. Run `npm test`, `npm run build`, `npm run test:browser`, `npm run test:xr`, and `npm run test:locomotion`.
 
 Qualcomm involvement is through the headset's Snapdragon hardware and browser rendering. This version has **no QNN or ExecuTorch inference**. The city is an authored approximation; sustained performance and comfort need broader device testing.
 

diff --git a/docs/HEADSET.md b/docs/HEADSET.md
@@ -42,13 +42,19 @@ serial. The automatic reconnection watcher targets Samsung model SM-I610.
 ## Controls
 
 - **Hands:** point the ray, pinch to start/fire/replay, hold for repeat fire.
-- **Controllers:** aim and use the standard trigger/select action.
-- **Laptop:** mouse and click, A/D or arrows to strafe, R reload, Escape pause.
+- **Teleport:** during play, point either hand at clear ground. Hold a pinch to choose a destination and release to move. An orange ring means clear; red means blocked. Aim away before releasing to cancel.
+- **Home:** point at **HOME** on the headset HUD and pinch to return to the starting position.
+- **Controllers:** trigger fires or teleports when aimed at ground; the left stick moves relative to your viewing direction, and the right stick turns 45° per deflection. Return the stick to center before turning again.
+- **Laptop:** mouse and click, WASD or arrows to move, H return home, R reload, Escape pause.
 - **Phone:** tap drones; tap the ammo counter to reload.
+
+Virtual travel stays within the flat park area and avoids planters, benches and the litter bin. Teleporting has a 10-meter range and a brief fade; hand tracking loss or pausing cancels an armed teleport. Head height and physical tracking are preserved. Physical movement itself is not constrained by the game's navigation boundaries.
 
 The pale aiming ring confirms that a ray intersects a drone. Empty magazines
 reload automatically. Use the headset's system controls to exit immersive mode;
 the game pauses on exit or when the XR session loses visibility.
+
+![Teleport destination and Home control in the generic stereo test runtime](screenshots/teleport.png)
 
 ## Validation
 
@@ -57,3 +63,5 @@ tracked hands, and registered successful shots. The generic IWER test rig is
 only for WebXR API/input regression checks, not Samsung hardware emulation.
 
 Official platform documentation: [Android XR for WebXR](https://developer.android.com/develop/xr/web).
+
+Locomotion has automated coverage for hand teleporting, room-scale offsets, blocked destinations, cancellation, Home, stick movement, snap turns and keyboard controls. Physical Galaxy XR movement/comfort validation is still pending.

diff --git a/docs/DESIGN.md b/docs/DESIGN.md
@@ -4,7 +4,7 @@ Visual thesis: a warm, recognizable Alamo Square fills the screen; precise ivory
 
 Content plan: full-canvas SF environment and one start action; a minimal score/time/shield HUD during play; a concise results screen with accuracy, best score and replay; an accessible controls sheet and XR entry.
 
-Interaction thesis: a short title-to-arena transition, responsive shot/recoil and hit particles, and a clear combo/round-result reveal. Keep the headset camera stationary apart from tracked physical movement; reduce decorative motion when requested.
+Interaction thesis: a short title-to-arena transition, responsive shot/recoil and hit particles, and a clear combo/round-result reveal. Use explicit point-and-release teleporting, viewer-relative stick movement and discrete snap turns; reduce decorative motion when requested.
 
 Game: 60-second drone-defense rounds in a bounded park arena. Mouse/touch aim and fire on desktop/mobile. WebXR target-ray select/pinch fires on headsets. Three shield charges, rechargeable magazine and increasing spawn pressure. No artificial camera shake in XR.
 
@@ -13,3 +13,5 @@ The environment reuses the user's CORTEX authored Painted Ladies and DataSF cont
 This first game does not yet integrate ExecuTorch. Do not present ordinary raycasting or scripted drone behavior as model inference. Both hands and scored shots have been observed on a physical Galaxy XR. Sustained performance and comfort still need broader testing.
 
 Visual upgrade: photographed HDR sky and environment lighting; cached static shadows in stereo; physical roughness/normal maps; full-volume planters, grasses, lamps and fences; chamfered blasters and quadrotor drones. Prominent Samsung Galaxy XR identification, with immersive entry as the primary action on supported headsets.
+
+Locomotion: show one destination ring and reuse the existing XR HUD for instructions and a Home action. Preserve head tracking and eye height, fade briefly on teleport/turn, and keep virtual travel inside a flat park region with body clearance around props.
